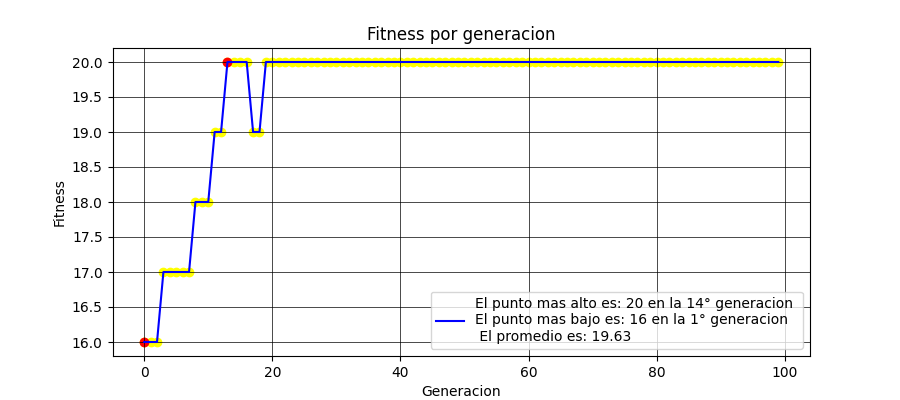
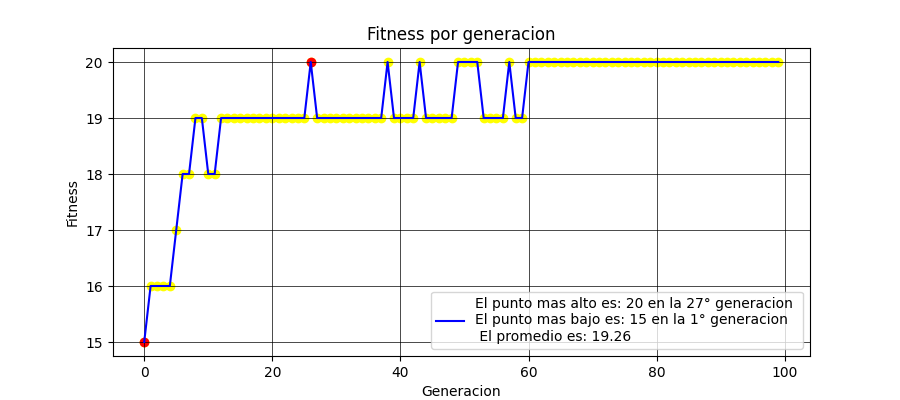
ultima actualizacion

diff --git a/main.py b/main.py
@@ -78,7 +78,7 @@ def menu():
     selection = -1
     size = 20
     generations = 100
-    population = 50
+    population = 1000
     solution = 20
     probabilityCrossover = 0.7
     probabilityMutation = 0.001
